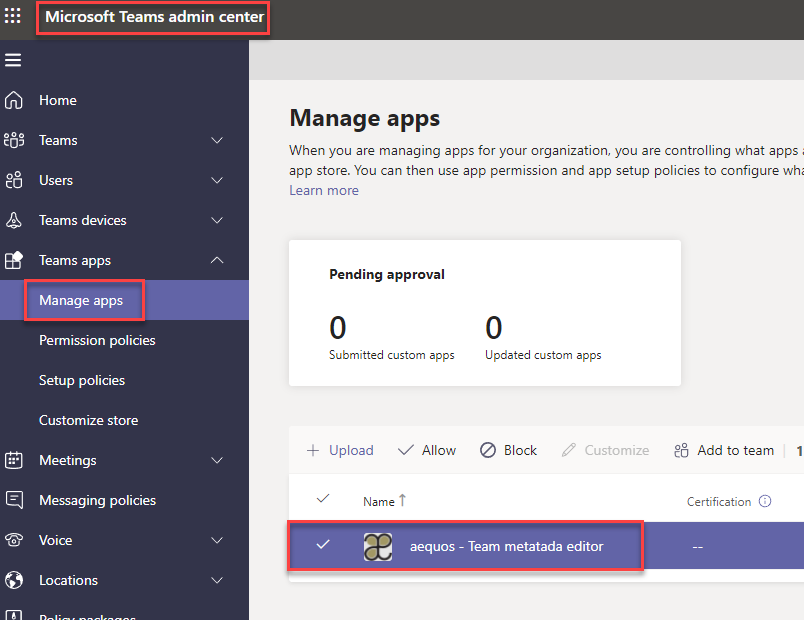
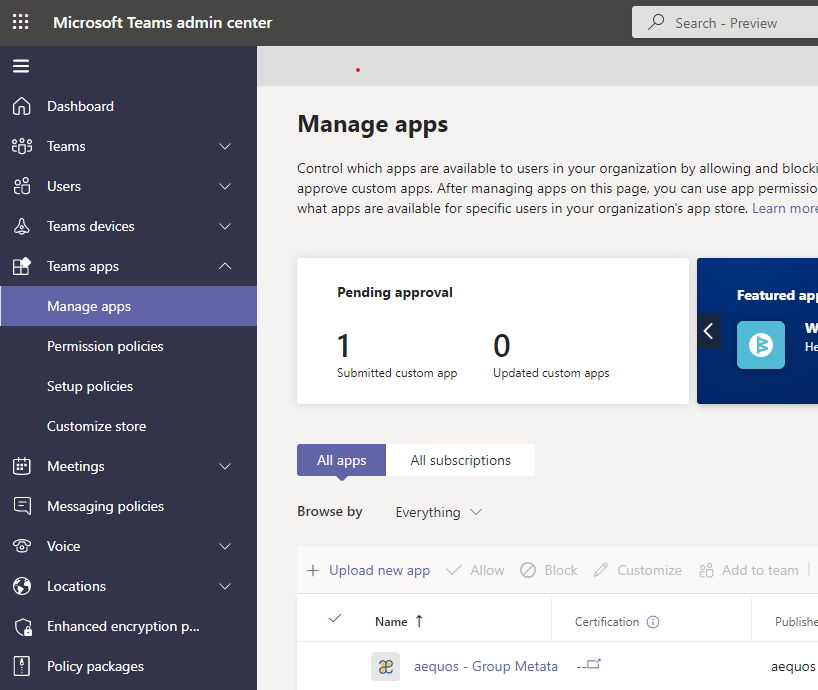
feat: update license references - Update some pictures to latest version - Optimize somes images size

diff --git a/docs/get_license.md b/docs/get_license.md
@@ -1,39 +1,33 @@
 ## Licence types
 
-You need a valid license to use the _"Modern Data Visualizer"_ Web Parts. We offer two kinds of license:
+You need a valid license to use the _"Modern Data Visualizer"_ Web Parts. We offer two kinds of license: [www.aequos.ca](https://www.aequos.ca/#comp-kmng61o4){:target="_blank"}
 
-- **Standalone**: Valid lifetime.
-- **Subscription**: Annual engagement (with no automatic renewal). 
+Except their duration, our license offer the same specifications: 
 
-Except their duration, these two licenses offer the same specifications: 
-
-- All Web Parts included (Data Visualizer, Data Filters, Data Verticals and Search Box).
+- All Web Parts included (Data Visualizer, Data Filters, Data Verticals, Search Box and Group Metadata Editor).
 - Unlimited users. The size of your organisation doesn't matter.
 - Free upgrades from our GitHub repository. However, no automatic upgrade process, you must manually update the package like a regular SharePoint Framework package.
 - One license per Microsoft 365 tenant ID. If you have two tenants (ex: DEV/PRODUCTION), you must purchase two licenses.
 - A license is not transferable between tenants.
 
-## Get a standalone or subscription license
+## Get a subscription license
 
 You can get a valid license directly from our [website](https://www.aequos.ca) or, if you prefer to receive a formal quote and pay with the registration of a PO number, contact us at [mdv@sword-group.com](mailto:mdv@sword-group.com). It will be our pleasure to answer you. 
 
-In both scenarios, we will need the **Microsoft 365 tenant ID** where you plan to use the solution. If you don't know how to get this information, you can use this online [tool](https://www.whatismytenantid.com/).
+In both scenarios, we will need the **Microsoft 365 Tenant ID** where you plan to use the solution. If you don't know how to get this information, you can use this online [tool](https://www.whatismytenantid.com/).
 
 !["Get license"](./assets/licenses.png){: .center}
-
-!!! info "Set up the license key"
-    If you chose a standalone license, we recommend to follow these [additional steps](./setup_standalone.md) to speed up validation process on your pages.
 
 ## Get a trial version
 
 Want to try the solution capabilities first? Sure! We offer a **14 days** trial for the solution, __no personal information nor credit card required__. Just:
 
 1. Download the latest solution package from our [GitHub repository](https://github.com/aequos-solutions/modern-data-visualizer/releases).
-1. Upload and deploy it to a SharePoint site collection or tenant app catalog.
-1. Add any of aequos Modern Data Visualizer Web Parts on a SharePoint page to automatically activate the trial license for your tenant ID.
+2. Upload and deploy it to a SharePoint site collection or tenant app catalog.
+3. Add any of aequos Modern Data Visualizer Web Parts on a SharePoint page to automatically activate the trial license for your Tenant ID.
 
 !["Trial license"](./assets/trial_license.png){: .center}
 
 !!! warning
-    - The trial license is tied to a unique tenant ID. Once expired, you can't use the solution anymore in this tenant until you purchase a valid license.
+    - The trial license is tied to a unique tenant ID. Once expired, you can't use the solution anymore in this Tenant until you purchase a valid license.
     - Trial periods are not cumulative. However, if you need more time to evaluate our solution, simply contact us directly at [mdv@sword-group.com](mailto:mdv@sword-group.com).

diff --git a/docs/features.md b/docs/features.md
@@ -70,5 +70,5 @@ The [PnP Modern Search v4](https://microsoft-search.github.io/pnp-modern-search/
 | :-----------------:   | :---------------------:   | :-----------------------------:   | :-------------------: |
 | Supported browsers | | <ul style="list-style: none"><li>Chrome</li><li>Firefox</li><li>Edge</li><li>Edge Chromium</li><li>Brave</li><li>Safari</li><li>**Internet Explorer 11 is not supported**</li></ul> | <ul style="list-style: none"><li>Chrome</li><li>Firefox</li><li>Edge</li><li>Edge Chromium</li><li>Brave</li><li>Safari</li><li>**Internet Explorer 11 is not supported**</li></ul> |
 | Support | How the solution is supported when your encounter issues | <span style="color:#5dc418;font-weight:700">Guaranteed by **@aequos**. Major bugs correction within 5 open days.</span> | By the open-source community (including us). No guarantee. If it breaks, it breaks |
-| Price | | <ul style="list-style: none;color:#5dc418;font-weight:700"><li>3499$US standalone (lifetime license)</li><li>Free upgrades and support</li><li>Unlimited users</li><li>1 license per Microsoft 365 tenant</li></ul> | Free. |
+| Price | | <span style="color:#5dc418;font-weight:700">[www.aequos.ca](https://www.aequos.ca/#comp-kmng61o4){:target="_blank"}</span> | Free |
 | License agreement | |<span style="color:#5dc418;font-weight:700">Commercial license. EULA at [www.aequos.ca/eula](https://www.aequos.ca/eula)</span> | MIT License (anyone can reuse the code for commercial purposes)

diff --git a/docs/installation.md b/docs/installation.md
@@ -12,7 +12,7 @@
 
     !["App Catalog "](./assets/app_catalog.png){: .center}
 
-    > * The solution is deployed in the general Micraosoft 365 CDN meaning **we don't host any code on our side**.
+    > * The solution is deployed in the general Microsoft 365 CDN meaning **we don't host any code on our side**.
 
     > * You can choose to make the solution available in [all sites](https://docs.microsoft.com/en-us/sharepoint/dev/spfx/tenant-scoped-deployment) or force to install an app to the site every time.
 
@@ -45,7 +45,7 @@
         | _ExternalItem.Read.All_ | Microsoft Search API
 
     !!! important "Microsoft Teams deployment"
-        If you plan to use the **aequos - Team/Group metadata editor** solution in Microsoft Teams, you must deploy the `.sppkg` file in the **tenant** app catalog and use the **"Sync to Teams"** ribbon button:
+        If you plan to use the **aequos - Group metadata editor** solution in Microsoft Teams, you must deploy the `.sppkg` file in the **Tenant** app catalog and use the **"Sync to Teams"** ribbon button:
 
         !["Sync to Teams"](./assets/sync-to-teams.png){: .center}
 

diff --git a/docs/setup_standalone.md b/docs/setup_standalone.md
@@ -1,6 +1,6 @@
 # Setup your standalone license
 
-!!! note
+<!-- !!! note
     * You must be a [tenant administrator](https://docs.microsoft.com/en-us/sharepoint/dev/spfx/tenant-properties?tabs=sprest#setwrite-tenant-properties) to perform this operation or use an account member of the Owners group of the tenant app catalog site.
     * Tenant properties are stored in the app catalog site associated with that tenant. To set or remove a property, you have to specify the absolute URL of the app catalog site. If you specify the URL of a site different than the app catalog, you will get an access denied error.
 
@@ -26,4 +26,4 @@ To setup a standalone license, follow this procedure:
   m365 spo storageentity remove -k AEQUOS_DATAVISUALIZER_LICENSE_KEY -u https://contoso.sharepoint.com/sites/appcatalog
   ```
 
-> With a standalone license, **our license validation check endpoint won't be hit**. The validation is done in-place.
+> With a standalone license, **our license validation check endpoint won't be hit**. The validation is done in-place. -->

diff --git a/docs/index.md b/docs/index.md
@@ -23,7 +23,7 @@ The solution includes the following Web Parts:
 | **[Data Filters](./usage/data-filters/index.md)** | Filter and refine data displayed in 'Data Visualizer' Web Parts.
 | **[Data Verticals](./usage/data-verticals/index.md)** | Browse data as silos (i.e. tabs) from multiple data sources.
 | **[Search box](./usage/search-box/index.md)** | Let users enter free text queries sent to 'Data Visualizer' Web Parts.
-| **[Group/Team Metadata Editor](./usage/group-metadata-editor/index.md)** | Allows owners to classify their team/ Microsoft 365 group based on Microsoft Graph schema extensions.
+| **[Group Metadata Editor](./usage/group-metadata-editor/index.md)** | Allows owners to classify their team/ Microsoft 365 group based on Microsoft Graph schema extensions.
 
 **Overview video: let's build a complete search center**
 

diff --git a/README.md b/README.md
@@ -9,7 +9,7 @@ It is the enhanced product version of the well known ["Pattern & Practices Moder
 
 Refer to out website to see [differences](https://www.aequos.ca/features) between the two solutions.
 
-To get a valid license, refer to the official [website](https://www.aequos.ca).
+To get a valid license, refer to the official [website](https://www.aequos.ca){:target="_blank"}.
 
 > Don't be wrong: **we still continue to invest time and support for the open-source**. If it suits your current requirement, feel free to go with it.We will never push someone to purchase the licensed solution. It is up to you.
 
